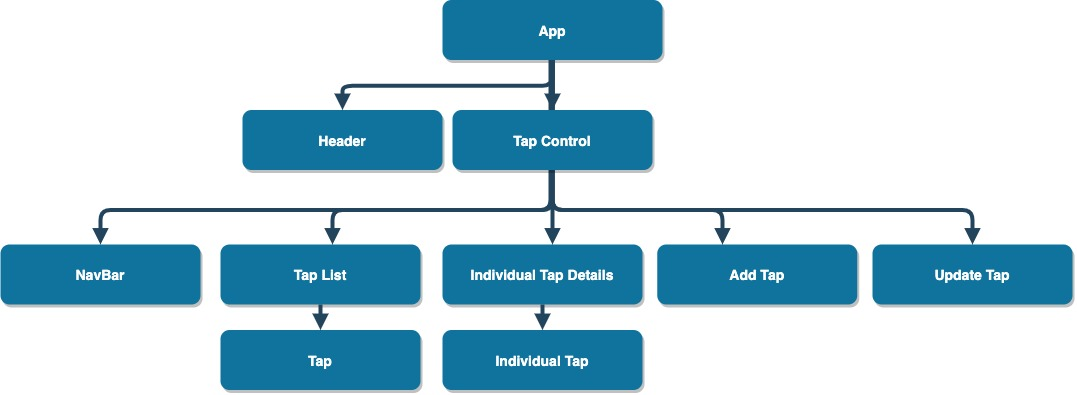
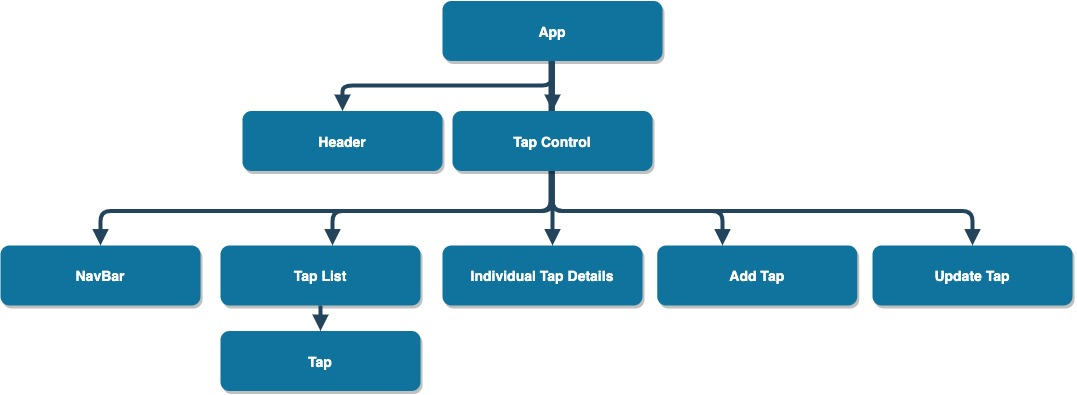
add update functionality

diff --git a/src/components/TapControl.js b/src/components/TapControl.js
@@ -3,7 +3,8 @@ import AddTap from './AddTap';
 import NavBar from './NavBar';
 import React from 'react';
 import TapList from './TapList';
-import TapDetails from './TapDetails'
+import TapDetails from './TapDetails';
+import UpdateTap from './UpdateTap';
 
 class TapControl extends React.Component {
 
@@ -19,7 +20,7 @@ class TapControl extends React.Component {
       tapList: [
         {
           name: 'Basic Beer',
-          brand: 'GenAric',
+          brand: 'Generic',
           price: 2,
           abv: 4,
           description: 'A run of the mill basic beer. It\'s probably warm and flat, but it\'s cheap!',
@@ -137,6 +138,28 @@ class TapControl extends React.Component {
       aboutVisible: false,
     })
   }
+  handleUpdateClick = (id) => {
+    const selectedTap = this.state.tapList.filter(tap => tap.id === id)[0];
+    this.setState({
+      selectedTap: selectedTap,
+      tapListVisible: false,
+      addTapVisible: false,
+      tapDetailsVisible: false,
+      updateTapVisible: true,
+      aboutVisible: false,
+    })
+  }
+  handleUpdateTapFormSubmit = (tap) => {
+    const editedTapList = this.state.tapList.filter(tap => tap.id !== this.state.selectedTap.id).concat(tap);
+    this.setState({
+      tapList: editedTapList,
+      tapListVisible: true,
+      addTapVisible: false,
+      tapDetailsVisible: false,
+      updateTapVisible: false,
+      aboutVisible: false
+    });
+  }
 
   render() {
     let currentlyVisibleState = null;
@@ -145,22 +168,33 @@ class TapControl extends React.Component {
         <TapList
           tapList={this.state.tapList}
           onViewTapClick={this.handleViewTapClick}
-          onSellPintClick={this.handleSellPintClick}/>
+          onSellPintClick={this.handleSellPintClick}
+        />
     }
     if (this.state.addTapVisible) {
       currentlyVisibleState =
         <AddTap
-          onNewTapCreation={this.handleNewTapCreation} />
+          onNewTapCreation={this.handleNewTapCreation}
+        />
     }
     if (this.state.tapDetailsVisible) {
       currentlyVisibleState =
         <TapDetails
           tap={this.state.selectedTap}
           onSellPintViewClick={this.handleSellPintViewClick}
-          onAddPintClick={this.handleAddPintClick}/>
+          onAddPintClick={this.handleAddPintClick}
+          onUpdateClick={this.handleUpdateClick}
+        />
     }
     if (this.state.aboutVisible) {
       currentlyVisibleState = <AboutUs />
+    }
+    if (this.state.updateTapVisible) {
+      currentlyVisibleState =
+        <UpdateTap
+          tap={this.state.selectedTap}
+          onNewTapCreation={this.handleUpdateTapFormSubmit}
+        />
     }
 
     const controlStyle = {

diff --git a/src/components/UpdateTap.js b/src/components/UpdateTap.js
@@ -1,0 +1,101 @@
+import PropTypes from 'prop-types';
+import React from 'react';
+import { v4 } from 'uuid';
+import '../css/index.css';
+
+function UpdateTap(props) {
+
+  const formStyle = {
+    width: '90%',
+    border: '2px white solid',
+    padding: '10px',
+    textAlign: 'center'
+  }
+  const inputStyle = {
+    width: '90%',
+    padding: '10px',
+    margin: '20px'
+  }
+  const buttonStyle = {
+    backgroundColor: 'black',
+    border: 'white 2px dashed',
+    color: 'white',
+    padding: '10px'
+  }
+
+  function handleUpdateTapForm(event) {
+    event.preventDefault();
+    props.onNewTapCreation({
+      name: event.target.name.value,
+      brand: event.target.brand.value,
+      price: event.target.price.value,
+      abv: event.target.abv.value,
+      description: event.target.description.value,
+      quantity: event.target.quantity.value,
+      id: v4()
+    })
+  }
+
+  return (
+    <React.Fragment>
+      <div style={formStyle}>
+        <h1>Update {props.tap.name} Keg</h1>
+        <form onSubmit={handleUpdateTapForm}>
+          <input
+            style={inputStyle}
+            type="text"
+            name="name"
+            placeholder="Beverage Name"
+            defaultValue={props.tap.name}
+            />
+          <br />
+          <input
+            style={inputStyle}
+            type="text"
+            name="brand"
+            placeholder="Beverage Brand"
+            defaultValue={props.tap.brand}/>
+          <br />
+          <input
+            style={inputStyle}
+            type="number"
+            name="price"
+            placeholder="Price per Pint"
+            min="1"
+            defaultValue={props.tap.price}/>
+          <br />
+          <input
+            style={inputStyle}
+            type="number"
+            name="abv"
+            placeholder="ABV%"
+            min="1"
+            defaultValue={props.tap.abv}/>
+          <br />
+          <textarea
+            style={inputStyle}
+            name="description"
+            placeholder="Description"
+            defaultValue={props.tap.description}/>
+          <br />
+          <input
+            style={inputStyle}
+            type="number"
+            name="quantity"
+            placeholder="Current Pints Available (full Keg = 124 pints)"
+            min="0"
+            defaultValue={props.tap.quantity}/>
+          <br />
+          <button class='hover' style={buttonStyle} type="submit">Update Keg</button>
+        </form>
+      </div>
+    </React.Fragment>
+  );
+}
+
+UpdateTap.propTypes = {
+  tap: PropTypes.object,
+  onUpdateTapFormSubmit: PropTypes.func
+}
+
+export default UpdateTap;

diff --git a/src/components/TapDetails.js b/src/components/TapDetails.js
@@ -56,7 +56,7 @@ function TapDetails(props) {
         <p style={bold}>ABV: {props.tap.abv}%</p>
         <p style={bold}>Price: ${props.tap.price}</p>
         <p>Pints Available: {props.tap.quantity}</p>
-        <button class='hover' style={buttonStyle}>Update</button>
+        <button class='hover' style={buttonStyle} onClick={() => props.onUpdateClick(props.tap.id)}>Update</button>
         <button class='hover' style={buttonStyle} onClick={() => props.onSellPintViewClick(props.tap.id)}>Sell a Pint</button>
         <button class='hover' style={buttonStyle} onClick={() => props.onAddPintClick(props.tap.id)}>Add a Pint</button> <br/><br/>
         <button class='hover' style={buttonStyle}>Delete Keg</button>
@@ -69,7 +69,8 @@ TapDetails.propTypes = {
   tap: PropTypes.object,
   onAddPintClick: PropTypes.func,
   onSellPintViewClick: PropTypes.func,
-  onAddPintClick: PropTypes.func
+  onAddPintClick: PropTypes.func,
+  onUpdateClick: PropTypes.func
 }
 
 export default TapDetails;

diff --git a/src/components/Tap.js b/src/components/Tap.js
@@ -62,8 +62,8 @@ Tap.propTypes = {
   brand: PropTypes.string,
   abv: PropTypes.number,
   price: PropTypes.number,
-  description: PropTypes.string,
   quantity: PropTypes.number,
+  description: PropTypes.string,
   id: PropTypes.string,
   whenViewTapClicked: PropTypes.func,
   whenSellPintClicked: PropTypes.func,

diff --git a/src/components/Header.js b/src/components/Header.js
@@ -4,11 +4,13 @@ function Header() {
 
   const headerStyle = {
     width: '100%',
-    height: '80px',
+    height: '86px',
     backgroundColor: 'white',
     color: 'black',
     position: 'fixed',
-    paddingLeft: '20px'
+    paddingLeft: '20px',
+    top: '0',
+    left:'0'
   }
 
   return (
